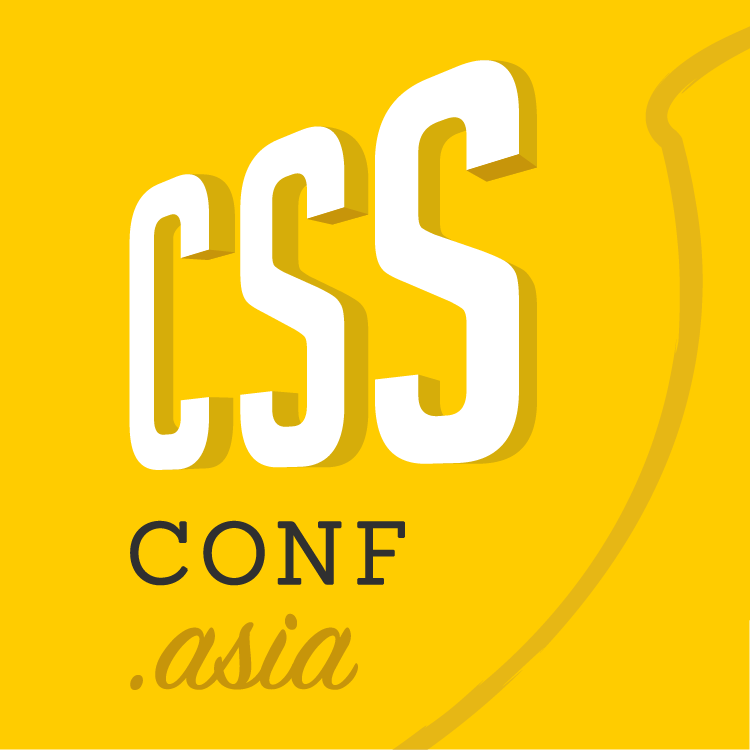
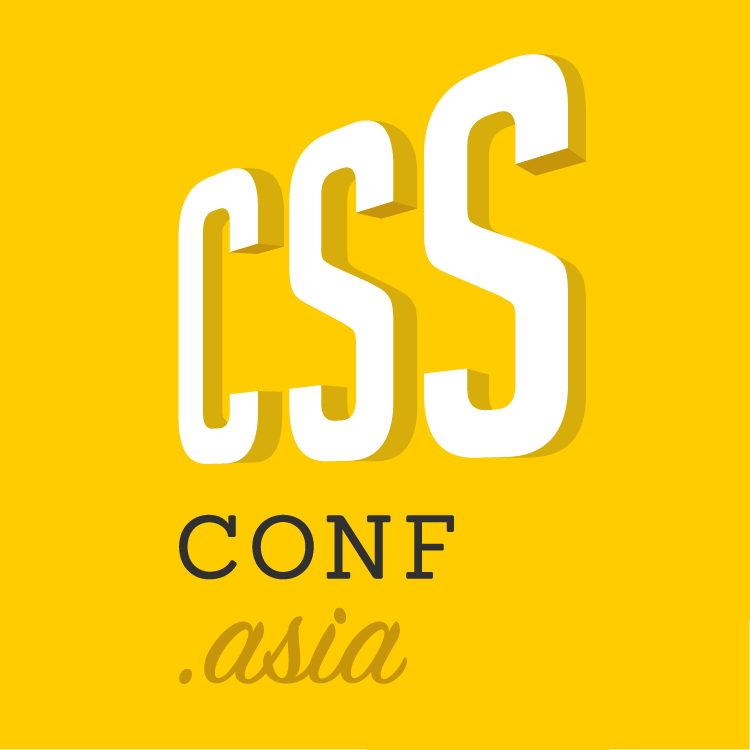
Updated OpenGraph image

Changed region(s): [[0.1533, 0.0613, 0.7973, 0.644], [0.1533, 0.6747, 0.6133, 0.92], [0.5213, 0.0307, 1.0, 1.0]]

diff --git a/index.php b/index.php
@@ -22,7 +22,7 @@
 	<meta property="og:title" content="CSSConf.Asia Singapore 2014"/>
 	<meta property="og:type" content="website"/>
 	<meta property="og:url" content="http://cssconf.asia/"/>
-	<meta property="og:image" content="http://cssconf.asia/assets/cssconfasia.png"/>
+	<meta property="og:image" content="http://cssconf.asia/assets/og_cssconfasia.jpg"/>
 	<meta property="og:site_name" content="CSSConf.Asia"/>
 	<meta property="og:description" content="Bridging web design and implementation. 19th Nov 2014, Amara Sanctuary, Sentosa, Singapore. Follow us on Twitter @cssconfasia"/>
 	<meta name="title" content="JSConf.Asia Singapore 2014"/>
